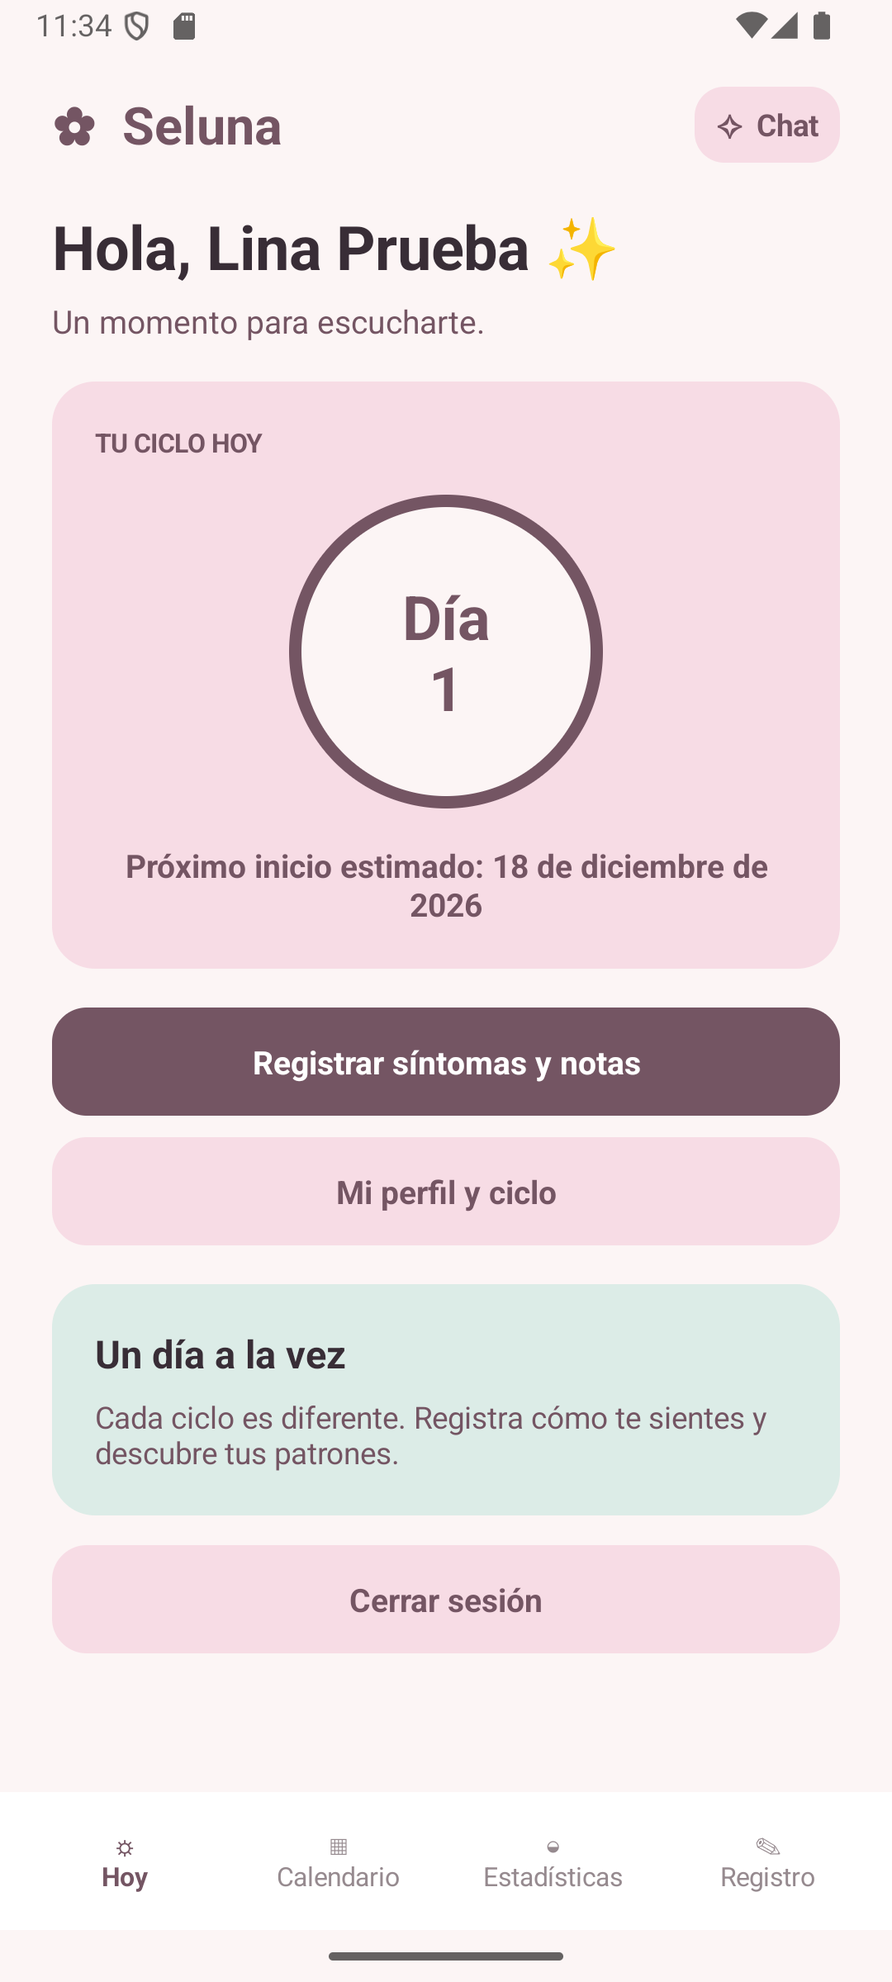
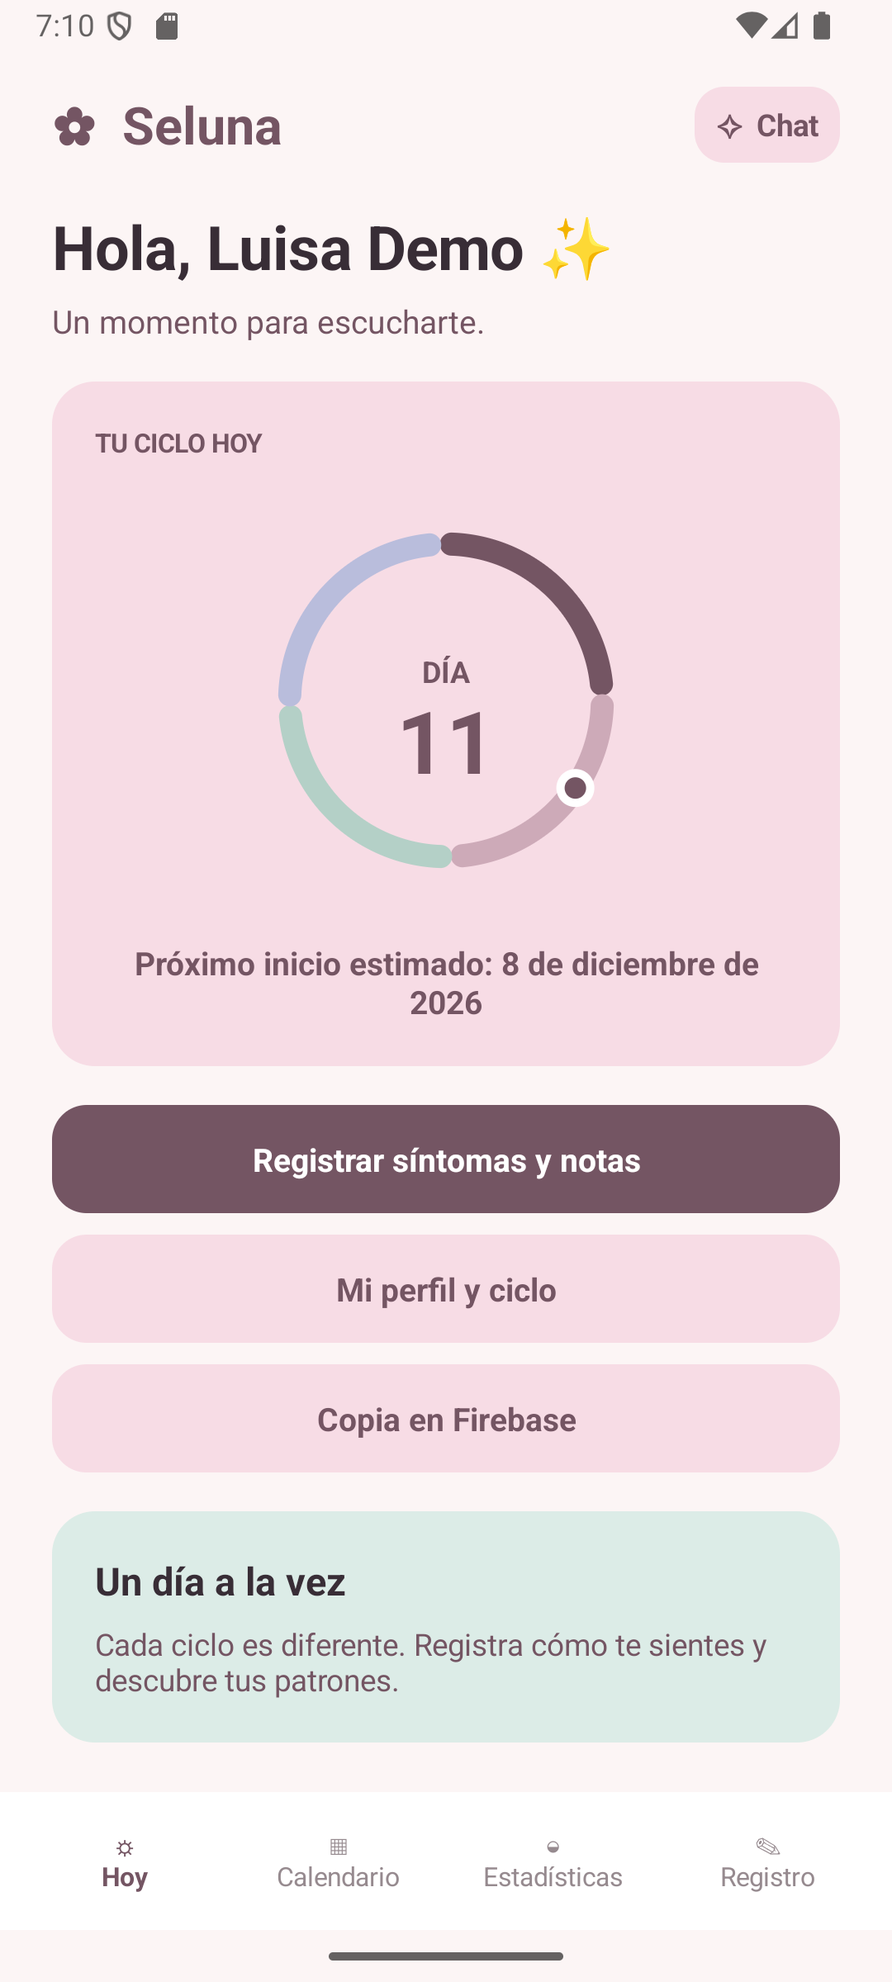
docs: actualizar presentación y capturas

diff --git a/docs/presentacion.html b/docs/presentacion.html
@@ -225,6 +225,16 @@
       .step p {
         font-size: 14px;
       }
+      .checks {
+        margin: 18px 0 0;
+        padding-left: 21px;
+        color: #675662;
+        font-size: clamp(15px, 1.35vw, 18px);
+        line-height: 1.45;
+      }
+      .checks li + li {
+        margin-top: 8px;
+      }
       .bottom {
         display: flex;
         align-items: center;
@@ -302,6 +312,9 @@
           padding-top: 25px;
           padding-bottom: 25px;
           align-content: start;
+        }
+        .slide > * {
+          min-width: 0;
         }
         .grid {
           grid-template-columns: 1fr;
@@ -402,6 +415,14 @@
       .deck:has(.notes.open) .shot img {
         height: min(36dvh, 340px);
       }
+      @media (min-width: 701px) {
+        .deck:has(.notes.open) .ring {
+          width: min(31vw, 39dvh, 340px);
+        }
+        .deck:has(.notes.open) .chat-cards .card {
+          padding-block: 12px;
+        }
+      }
       .note-head {
         position: sticky;
         top: -15px;
@@ -458,13 +479,23 @@
         display: grid;
         place-items: center;
       }
+      .report-shot img {
+        height: min(55dvh, 460px);
+        border-radius: 10px;
+      }
+      .gallery .shot img {
+        height: min(42dvh, 400px);
+      }
+      .deck:has(.notes.open) .gallery .shot img {
+        height: min(33dvh, 310px);
+      }
       @media (max-width: 700px) {
         .gallery {
           grid-template-columns: repeat(4, minmax(130px, 1fr));
           overflow-x: auto;
           padding-bottom: 8px;
         }
-        .shot img {
+        .gallery .shot img {
           height: min(38dvh, 330px);
         }
         .shot p {
@@ -472,6 +503,9 @@
         }
         .chat-shot img {
           height: min(35dvh, 320px);
+        }
+        .report-shot img {
+          max-height: 33dvh;
         }
         .notes {
           padding: 0 18px 8px;
@@ -537,7 +571,7 @@
             <div class="card">
               <b>Cómo</b>
               <p>
-                Formularios, almacenamiento local y una estimación explicable.
+                Configuración en dos pasos, almacenamiento local y una estimación explicable.
               </p>
             </div>
             <div class="card wide">
@@ -558,7 +592,7 @@
             <figure class="shot">
               <img src="capturas/hoy.png" alt="Pantalla Hoy de Seluna" />
               <figcaption>☼ Hoy</figcaption>
-              <p>Día del ciclo y estimación.</p>
+              <p>Anillo por fases y día del ciclo.</p>
             </figure>
             <figure class="shot">
               <img
@@ -566,7 +600,7 @@
                 alt="Pantalla Calendario de Seluna"
               />
               <figcaption>▦ Calendario</figcaption>
-              <p>Fechas e inicios reales.</p>
+              <p>Inicios registrados y fechas estimadas.</p>
             </figure>
             <figure class="shot">
               <img
@@ -614,11 +648,11 @@
       <section class="slide" aria-label="Diapositiva 5">
         <div class="grid">
           <div>
-            <div class="eyebrow">Construcción</div>
-            <h2>Datos propios, en el dispositivo.</h2>
+            <div class="eyebrow">Implementación</div>
+            <h2>Seguimiento local y copia opcional.</h2>
             <p class="lead">
-              La app conecta pantallas nativas con una base local y validaciones
-              antes de guardar.
+              SQLite guarda el historial por perfil. El perfil de muestra
+              permite empezar con ciclos y registros ficticios.
             </p>
             <div class="pills">
               <span class="pill">Kotlin</span><span class="pill">Android</span
@@ -637,17 +671,20 @@
             <div class="step">
               <span>02</span>
               <div>
-                <b>Persistencia</b>
-                <p>SQLite guarda los datos asociados a cada perfil local.</p>
+                <b>Copia manual en Firebase</b>
+                <p>
+                  Firebase Authentication identifica la cuenta. Firestore guarda
+                  la copia cuando la usuaria lo solicita.
+                </p>
               </div>
             </div>
             <div class="step">
               <span>03</span>
               <div>
-                <b>Interacción</b>
+                <b>Estado de la integración</b>
                 <p>
-                  RecyclerView presenta listas y celdas con acciones. Los
-                  formularios validan fechas y valores.
+                  Acceso con correo probado en Firebase. Reglas de Firestore
+                  probadas en el emulador local. Despliegue pendiente.
                 </p>
               </div>
             </div>
@@ -658,16 +695,15 @@
         <div class="grid">
           <div>
             <div class="eyebrow">Asistente opcional</div>
-            <h2>Preguntar cuando ella decida.</h2>
+            <h2>Guía local y chat con Qwen.</h2>
             <p>
-              La guía responde preguntas frecuentes sin conexión. Las demás
-              consultas pueden compartir hasta dos mensajes recientes con B.AI.
+              La guía responde preguntas frecuentes sin conexión. Para otras
+              consultas se envía el texto de la conversación a B.AI.
             </p>
             <div class="pills">
-              <span class="pill">Qwen3.8 Flash</span
-              ><span class="pill">qwen3.8-flash · B.AI</span>
+              <span class="pill">qwen3.8-flash · B.AI</span>
             </div>
-            <div class="cards" style="margin-top: 18px">
+            <div class="cards chat-cards" style="margin-top: 18px">
               <div class="card">
                 <b>Demostración</b>
                 <p>Respuesta de prueba sin credenciales.</p>
@@ -677,9 +713,6 @@
                 <p>Requiere conexión y un servidor configurado con la clave.</p>
               </div>
             </div>
-            <p class="small" style="margin-top: 12px">
-              Información general sobre bienestar menstrual.
-            </p>
           </div>
           <figure class="shot chat-shot">
             <img
@@ -693,59 +726,37 @@
       <section class="slide" aria-label="Diapositiva 7">
         <div class="grid">
           <div>
-            <div class="eyebrow">Método y viabilidad</div>
-            <h2>De los mockups a una beta.</h2>
+            <div class="eyebrow">Método y criterios de entrega</div>
+            <h2>Qué comprobar en la beta.</h2>
             <p>
-              Una entrega incremental permite comprobar cada recorrido con datos
-              ficticios antes de conectar el servicio real.
+              Desarrollo incremental a partir del mockup y la rúbrica, con
+              datos ficticios para probar cada recorrido.
             </p>
+            <ul class="checks">
+              <li><b>Formulario.</b> Rechazar fechas y valores inválidos.</li>
+              <li><b>Persistencia.</b> Reabrir la app y encontrar el registro guardado.</li>
+              <li><b>RecyclerView.</b> Abrir una fecha o un registro con un toque.</li>
+              <li><b>Informe.</b> Exportar el resumen o añadir la tabla diaria. Ambos excluyen las notas privadas.</li>
+            </ul>
           </div>
-          <div class="steps">
-            <div class="step">
-              <span>01</span>
-              <div>
-                <b>Diseño y aceptación</b>
-                <p>Traducir mockups y criterios en recorridos verificables.</p>
-              </div>
-            </div>
-            <div class="step">
-              <span>02</span>
-              <div>
-                <b>Seguimiento local</b>
-                <p>Modelos, SQLite, formularios y estados con historial.</p>
-              </div>
-            </div>
-            <div class="step">
-              <span>03</span>
-              <div>
-                <b>Asistente y entrega</b>
-                <p>
-                  Probar contrato en demo, configurar servicio y validar en
-                  Android.
-                </p>
-              </div>
-            </div>
-            <div class="step">
-              <span>04</span>
-              <div>
-                <b>Propuesta freemium</b>
-                <p>
-                  El registro básico sería gratuito. Plus podría ampliar
-                  consultas y resúmenes. Es una hipótesis por validar.
-                </p>
-              </div>
-            </div>
-          </div>
+          <figure class="shot report-shot">
+            <img src="capturas/informe.png" alt="Informe PDF de seguimiento menstrual con datos ficticios" />
+            <figcaption>Informe PDF generado en Android</figcaption>
+          </figure>
         </div>
       </section>
       <section class="slide" aria-label="Diapositiva 8">
         <div class="grid">
           <div>
             <div class="eyebrow">Cierre · demostración</div>
-            <h2>Pequeños registros,<br />mayor claridad.</h2>
+            <h2>Demostración con datos de muestra.</h2>
             <p class="lead">
-              Ahora mostraré cómo un dato se convierte en una historia útil:
-              perfil → inicio → registro → estadísticas.
+              Abrir Hoy, registrar un síntoma, revisar las estadísticas y
+              exportar el informe. En el chat, probar la guía sin conexión.
+            </p>
+            <p class="small" style="margin-top: 16px">
+              Propuesta Seluna Plus. Seguimiento gratuito y una suscripción
+              para ampliar las consultas y solicitar resúmenes.
             </p>
             <p class="author">
               <b>Gracias</b><br />Luisa Fernanda Velandia Salamanca · U00179371
@@ -786,12 +797,12 @@
       const notes = [
         `<p><b>Guion · 35–40 s.</b> Soy Luisa Fernanda Velandia Salamanca y presento Seluna, una beta Android para acompañar el registro del ciclo menstrual. Quise reunir información cotidiana en un espacio sencillo, donde cada persona pueda consultar su propio historial a su ritmo.</p>`,
         `<p><b>Guion · 40–45 s.</b> Identifiqué que cuando los inicios, síntomas y notas están repartidos en distintos lugares es difícil reconstruir un ciclo. Mi objetivo fue crear una aplicación que reúna esos datos. Lo hago con formularios, almacenamiento local y una estimación explicable, para ayudar a recordar fechas, observar patrones y preparar preguntas informadas.</p>`,
-        `<p><b>Guion · 45–50 s.</b> Organicé la experiencia en cuatro secciones. Hoy muestra el día del ciclo y la próxima estimación. Calendario permite seleccionar una fecha y registrar un inicio real. En Registro se pueden guardar, editar y eliminar datos diarios. Estadísticas resume la información que ya se ha registrado.</p>`,
-        `<p><b>Guion · 45–50 s.</b> Para la estimación ordeno los inicios reales y calculo la distancia en días entre fechas consecutivas. Si tengo intervalos ficticios de 28 y 30 días, su promedio es 29. Sumo esos 29 días al último inicio. Con un solo inicio utilizo la duración habitual configurada. La fecha aproximada sirve para orientar el seguimiento del ciclo.</p><p class="source">Referencia · <a href="https://womenshealth.gov/menstrual-cycle/your-menstrual-cycle">Office on Women’s Health · Your menstrual cycle</a></p>`,
-        `<p><b>Guion · 45–50 s.</b> Desarrollé la interfaz nativa en Kotlin. Los modelos representan perfil, configuración del ciclo, registro y estimación. SQLite persiste los datos por perfil local. Usé RecyclerView para el calendario y los listados con acciones por elemento, y validé fechas y valores en los formularios antes de guardar.</p><p class="source">Referencias: <a href="https://developer.android.com/training/data-storage/sqlite">Android · SQLite</a> · <a href="https://developer.android.com/develop/ui/views/layout/recyclerview">Android · RecyclerView</a>.</p>`,
-        `<p><b>Guion · 45–50 s.</b> Añadí una guía que responde preguntas frecuentes dentro de la app, sin usar tokens. La captura muestra una de esas respuestas. Para otras preguntas uso Qwen3.8 Flash, identificado como qwen3.8-flash. Solo envío el texto del chat y, si es una pregunta de seguimiento, hasta dos mensajes anteriores. El diario permanece en el dispositivo. Qwen requiere conexión, servidor configurado y clave.</p><p class="source"><a href="https://docs.b.ai/llmservice/models/qwen3-8-flash/">B.AI · Qwen3.8 Flash</a></p>`,
-        `<p><b>Guion · 45–50 s.</b> Primero traduje los mockups y la rúbrica a recorridos. Luego construí la persistencia local y los formularios. Finalmente conecté el asistente y comprobé el flujo en el emulador. Como propuesta de negocio planteo mantener gratuitos el historial y las funciones básicas. Seluna Plus podría ampliar el número de consultas y ofrecer resúmenes a petición. Mediría el costo medio por consulta y la disposición a pagar antes de implementar cobros.</p>`,
-        `<p><b>Guion · 40–60 s.</b> Para terminar voy a demostrar el recorrido con datos ficticios: configuro el perfil, registro un inicio, agrego un día al diario y reviso las estadísticas. Después mostraré el chat y explicaré si está en modo demostración o conectado al servicio real. Gracias por escucharme.</p><p><b>Preguntas para preparar</b></p><ul><li>¿Por qué elegí almacenamiento local y qué ocurre al cambiar de dispositivo?</li><li>¿Cómo se calcula la estimación con uno o varios inicios y qué limitaciones tiene?</li><li>¿Qué datos se envían al chat y dónde se mantiene la clave?</li><li>¿Dónde se usa RecyclerView y qué acción tiene cada elemento?</li><li>¿Qué validaciones impiden guardar datos inconsistentes?</li><li>¿Qué ofrece la beta y qué pertenece a la propuesta futura de negocio?</li></ul>`,
+        `<p><b>Guion · 45–55 s.</b> Después de crear un perfil, primero configuro el ciclo y luego elijo un objetivo y, si quiero, algunas preferencias. En Hoy, el anillo segmentado ubica el día en la fase estimada. El calendario diferencia las fechas registradas de las estimadas. En Registro agrego o corrijo síntomas y en Estadísticas consulto el resumen de mi historial.</p>`,
+        `<p><b>Guion · 45–50 s.</b> Para estimar la próxima fecha, calculo los días entre inicios consecutivos. Con dos intervalos ficticios de 28 y 30 días, el promedio es 29. Sumo esos días al último inicio. Con un solo inicio uso la duración habitual configurada. El ciclo puede variar, por eso la app conserva la distinción entre una fecha registrada y una estimada.</p><p class="source">Referencia · <a href="https://womenshealth.gov/menstrual-cycle/your-menstrual-cycle">Office on Women’s Health · Your menstrual cycle</a></p>`,
+        `<p><b>Guion · 50–60 s.</b> Construí Seluna en Android Studio con Kotlin. Los modelos representan el perfil, el diario y el ciclo. SQLite conserva el historial de cada perfil local, y la opción de muestra inicia con registros ficticios. Cuando se solicita una copia, Firebase Authentication identifica la cuenta y Firestore recibe el diario de ese perfil. Restaurar incorpora lo que falta y conserva las ediciones locales.</p><p>Probé el inicio de sesión en el proyecto Firebase. Las reglas pasaron las pruebas en el emulador de Firestore y el despliegue queda pendiente.</p><p class="source">Referencias · <a href="https://developer.android.com/training/data-storage/sqlite">Android · SQLite</a> · <a href="https://firebase.google.com/docs/firestore/security/rules-conditions">Firebase · Condiciones de reglas de seguridad</a>.</p>`,
+        `<p><b>Guion · 45–55 s.</b> Si pregunto cómo se cuenta el día uno, la guía responde en el teléfono, incluso sin conexión. También puedo leer fichas de bienestar, como la de Infusiones, que lleva una foto propia. Para otras consultas, el servidor usa Qwen3.8 Flash en B.AI. Envía la pregunta y, cuando hace falta contexto, hasta dos mensajes anteriores del chat. La clave se configura en el servidor.</p><p class="source"><a href="https://docs.b.ai/llmservice/models/qwen3-8-flash/">B.AI · Qwen3.8 Flash</a></p>`,
+        `<p><b>Guion · 45–55 s.</b> Partí de los mockups y trabajé por incrementos. Para comprobar los requisitos puedo abrir un día del calendario o una fila del diario, que son elementos interactivos de RecyclerView. En el formulario pruebo una fecha inválida, guardo una válida y vuelvo a abrir la app para comprobar la persistencia. En Estadísticas puedo generar el informe que ven aquí. La usuaria decide entre el resumen y la tabla diaria. Las notas personales permanecen fuera de ambos informes.</p><p class="source"><a href="https://developer.android.com/develop/ui/views/layout/recyclerview">Android · RecyclerView</a></p>`,
+        `<p><b>Guion · 45–60 s.</b> Entro con «Entrar con datos de muestra» para abrir un perfil con historia ficticia. Señalo el anillo de Hoy, guardo un síntoma y abro Estadísticas. Allí selecciono «Exportar informe de salud en PDF» y muestro las dos opciones. Para el chat, elijo la pregunta sobre el día uno y muestro la respuesta de la guía. Como propuesta futura, Seluna Plus ampliaría las consultas con IA y ofrecería resúmenes a petición. Antes de cobrar mediría el costo medio de cada consulta y cuántas usuarias usarían Plus.</p><p><b>Preguntas para preparar</b></p><ul><li>¿Qué queda en SQLite y cuándo sale una copia hacia Firebase?</li><li>¿Cómo se calcula la estimación con uno o varios inicios?</li><li>¿Qué cambia entre el resumen PDF y el informe con tabla diaria?</li><li>¿Dónde se usa RecyclerView y qué acción tiene cada elemento?</li><li>¿Cómo distingo en la demo una respuesta de la guía y una de Qwen?</li></ul>`,
       ];
       let index = 0;
       const slides = [...document.querySelectorAll(".slide")],

diff --git a/docs/plan.md b/docs/plan.md
@@ -22,10 +22,11 @@ Cuando las fechas, los síntomas y las notas quedan repartidos entre el calendar
 | Hoy | Consultar el día desde el último inicio real y ver la próxima fecha estimada cuando está disponible. |
 | Calendario | Cambiar el mes, seleccionar una fecha y registrar o quitar un inicio de menstruación. |
 | Registro | Guardar, consultar, editar y eliminar registros por fecha. |
-| Estadísticas | Ver duración del ciclo, recuentos e indicadores derivados del historial y exportar un resumen en PDF. |
-| Asistente | Enviar preguntas escritas por decisión de la usuaria. La conversación se mantiene en memoria mientras se usa la app. |
+| Estadísticas | Consultar recuentos, abrir guías de bienestar y exportar un PDF con resumen o detalle diario. |
+| Asistente | Resolver preguntas de la guía sin conexión y enviar otras consultas a Qwen con contexto limitado. |
+| Copia en Firebase | Vincular una cuenta por correo y confirmar la copia del diario a Firestore. Restaurar incorpora los datos que falten en el perfil local. |
 
-La beta usa una cuenta en el dispositivo. Sincronización, inicio de sesión con Google o Apple, suscripciones y recomendaciones médicas individualizadas quedan fuera del alcance académico. El seguimiento funciona sin red. El chat en vivo requiere un servidor con clave y conexión a B.AI.
+El diario y la cuenta principal funcionan en SQLite sin conexión. La copia manual de Firebase requiere una cuenta vinculada y acceso al proyecto desplegado. El chat en vivo requiere un servidor con clave y conexión a B.AI. Los accesos con Google y Apple, la sincronización automática y la suscripción son ampliaciones posteriores a esta beta.
 
 ## Metodología
 
@@ -43,6 +44,12 @@ La beta usa una cuenta en el dispositivo. Sincronización, inicio de sesión con
 | Modelos orientados a objetos | `UserProfile`, `CycleSettings`, `DailyEntry` y `CycleEstimate` encapsulan propiedades. `SelunaStore` gestiona las consultas y relaciones. |
 | Listados | El calendario y las listas de diario, estadísticas y chat usan `RecyclerView`, con acciones por elemento. |
 | Formularios | El perfil del ciclo y el diario validan los valores antes de persistirlos. |
+
+## Cierre de la entrega
+
+1. **Firebase.** Authentication ya aceptó una cuenta ficticia desde Android. Firestore devolvió `PERMISSION_DENIED` en `seluna-app`. Tras autorizar Firebase CLI con la cuenta de Luisa, revisar las reglas activas, aplicar `firestore.rules` si corresponde y verificar una copia y restauración reales con el perfil ficticio. Las reglas ya se probaron con una cuenta propietaria, otra cuenta y un visitante en el emulador de Firebase.
+2. **Diseño.** Comparar la beta actual con Figma en un teléfono pequeño y otro ancho. Priorizar la jerarquía de Hoy, la leyenda del calendario, la legibilidad de los formularios y las tarjetas de bienestar.
+3. **Exposición.** Ensayar con la cuenta de muestra. Mostrar una fecha real y una estimada, el registro, los dos modos del informe PDF y una respuesta de la guía local. Mostrar la copia en consola cuando se haya verificado en `seluna-app`.
 
 ## Estimación del próximo inicio
 

diff --git a/README.md b/README.md
@@ -14,6 +14,8 @@ Capturas del emulador Android con perfiles y registros ficticios. El chat muestr
 | --- | --- | --- | --- | --- |
 | <img src="docs/capturas/hoy.png" alt="Día del ciclo y fecha estimada" width="180"> | <img src="docs/capturas/calendario.png" alt="Calendario con un inicio de menstruación registrado" width="180"> | <img src="docs/capturas/registro.png" alt="Diario con un registro de flujo, ánimo y síntomas" width="180"> | <img src="docs/capturas/estadisticas.png" alt="Duración estimada y recuentos derivados del diario" width="180"> | <img src="docs/capturas/chat.png" alt="Preguntas rápidas y respuesta de la guía de Seluna" width="180"> |
 
+[Tarjeta editorial de bienestar](docs/capturas/bienestar.png) · [Vista del informe de salud](docs/capturas/informe.png)
+
 ## Ejecutar en Android Studio
 
 Abre esta carpeta como proyecto, usa JDK 17 y Android SDK 35, selecciona la variante `debug` y ejecuta en un teléfono o emulador con Android 8.0 o superior. Desde PowerShell también puedes compilar y ejecutar el análisis estático.
@@ -62,7 +64,7 @@ El servidor lee la clave exclusivamente de `server/.env`, excluido de Git, y usa
 
 ## Recorrido para exponer
 
-1. En la app, crea una cuenta local ficticia y selecciona un inicio de menstruación reciente.
+1. Entra con el perfil de muestra o crea una cuenta local ficticia. El formulario nuevo separa las fechas y duraciones del ciclo de la elección de un objetivo.
 2. Muestra el anillo de Hoy y la fecha estimada. Abre el calendario y selecciona un día.
 3. Guarda un registro con flujo, ánimo, síntomas e intensidad. En **Estadísticas → Exportar informe de salud en PDF**, selecciona el resumen o incluye la tabla diaria. El informe se genera en el dispositivo y excluye las notas personales.
 4. Abre el chat y selecciona «¿Cómo se cuenta el día 1 del ciclo?» para probar la guía local. Para mostrar el servidor, escribe una pregunta diferente, como «¿Cómo puedo preparar preguntas para mi próxima consulta sobre mi ciclo?».
